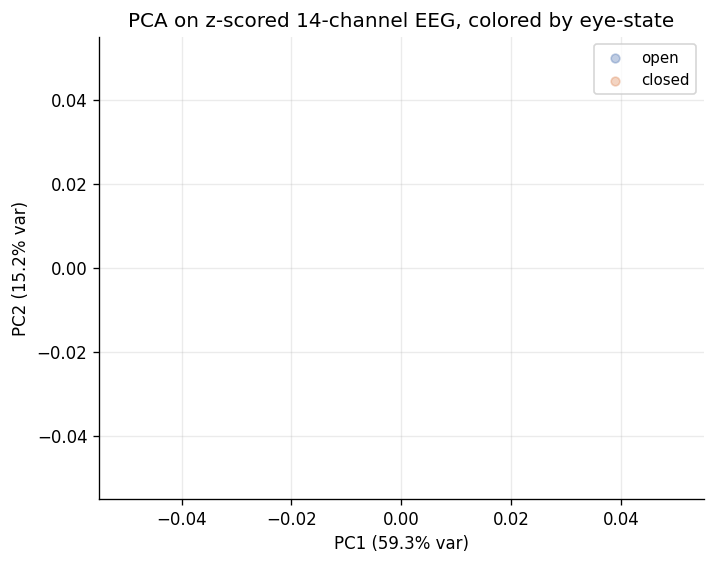
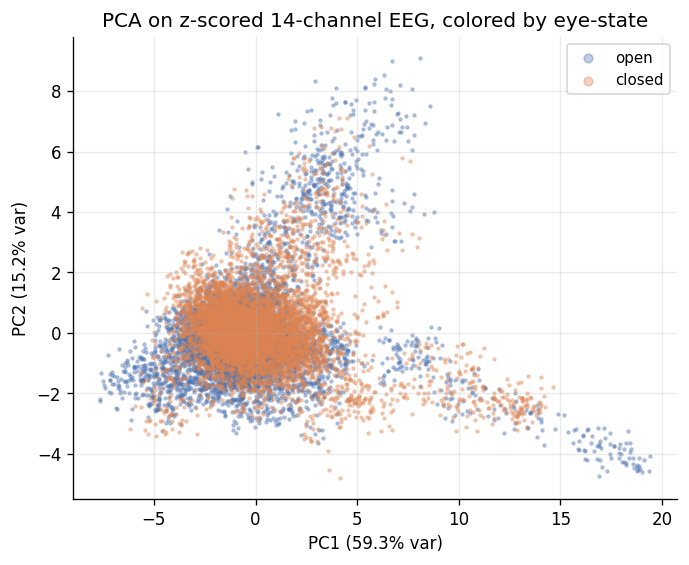
fix(eda): rename autocorr loop vars to stop shadowing the label array
The autocorrelation annotation loop reused 'y' as its inner variable, which clobbered the label array set in cell 17. As a result the PCA scatter in cell 21 saw 'y' as a float (~0.47) and rendered an empty plot. Rename to lag_val/acorr_val and re-execute notebooks; figure 09 now shows the expected ~15k-sample scatter.

diff --git a/scripts/_build_notebooks.py b/scripts/_build_notebooks.py
@@ -419,8 +419,8 @@ def build_eda_notebook():
         "rs = label_autocorr(clean_df[LABEL_COL].values, lags)\n"
         "fig, ax = plt.subplots(figsize=(7, 4))\n"
         "ax.plot(lags, rs, marker='o', color='#c44e52')\n"
-        "for x, y in zip(lags, rs):\n"
-        "    ax.annotate(f'{y:.2f}', xy=(x, y), xytext=(5, 6), textcoords='offset points', fontsize=9)\n"
+        "for lag_val, acorr_val in zip(lags, rs):\n"
+        "    ax.annotate(f'{acorr_val:.2f}', xy=(lag_val, acorr_val), xytext=(5, 6), textcoords='offset points', fontsize=9)\n"
         "ax.set_xscale('log')\n"
         "ax.set_xlabel('lag (samples; ~128 Hz)')\n"
         "ax.set_ylabel('label autocorrelation r')\n"